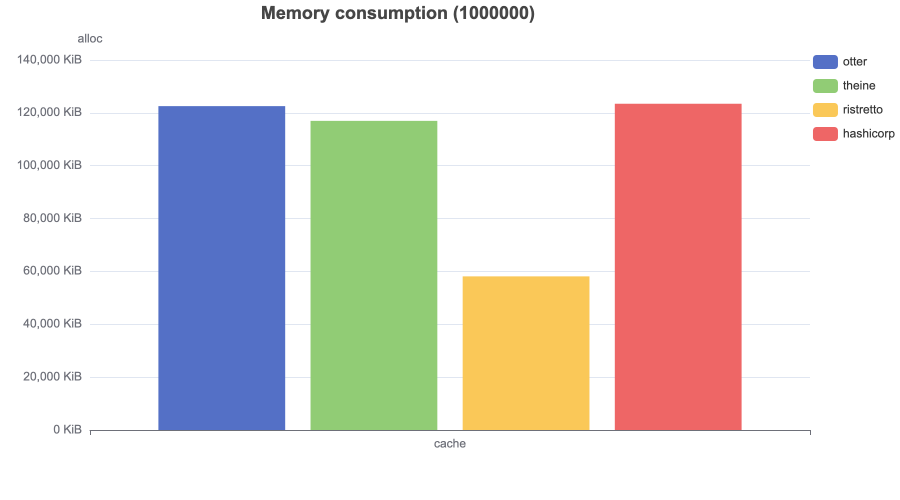
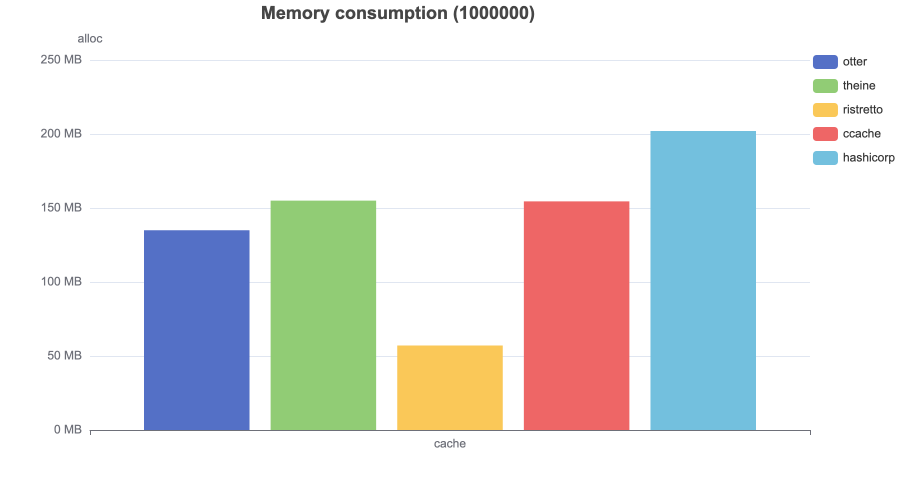
[Chore] Update memory consumption benchmarks

diff --git a/memory/main.go b/memory/main.go
@@ -2,7 +2,9 @@ package main
 
 import (
 	"fmt"
+	"github.com/karlseguin/ccache/v3"
 	"log"
+	"math"
 	"os"
 	"runtime"
 	"strconv"
@@ -14,7 +16,20 @@ import (
 	"github.com/maypok86/otter"
 )
 
-var keys []uint32
+var keys []string
+
+func round(num float64) int {
+	return int(num + math.Copysign(0.5, num))
+}
+
+func toFixed(num float64, precision int) float64 {
+	output := math.Pow(10, float64(precision))
+	return float64(round(num*output)) / output
+}
+
+func toMB(bytes uint64) float64 {
+	return float64(bytes) / 1024 / 1024
+}
 
 func main() {
 	name := os.Args[1]
@@ -24,9 +39,9 @@ func main() {
 		log.Fatal(err)
 	}
 
-	keys = make([]uint32, 0, capacity)
+	keys = make([]string, 0, capacity)
 	for i := 0; i < capacity; i++ {
-		keys = append(keys, uint32(i))
+		keys = append(keys, strconv.Itoa(i))
 	}
 
 	constructor, ok := map[string]func(int){
@@ -34,6 +49,7 @@ func main() {
 		"ristretto": newRistretto,
 		"theine":    newTheine,
 		"hashicorp": newHashicorp,
+		"ccache":    newCcache,
 	}[name]
 	if !ok {
 		log.Fatalf("not found cache %s\n", name)
@@ -49,16 +65,16 @@ func main() {
 	var m runtime.MemStats
 	runtime.ReadMemStats(&m)
 
-	fmt.Printf("%s\t%d\t%v KiB\t%v KiB\n",
+	fmt.Printf("%s\t%d\t%v MB\t%v MB\n",
 		name,
 		capacity,
-		(m.Alloc-o.Alloc)/1024,
-		(m.TotalAlloc-o.TotalAlloc)/1024,
+		toFixed(toMB(m.Alloc-o.Alloc), 2),
+		toFixed(toMB(m.TotalAlloc-o.TotalAlloc), 2),
 	)
 }
 
 func newOtter(capacity int) {
-	cache, err := otter.MustBuilder[uint32, uint32](capacity).
+	cache, err := otter.MustBuilder[string, string](capacity).
 		WithTTL(time.Hour).
 		Build()
 	if err != nil {
@@ -84,7 +100,7 @@ func newRistretto(capacity int) {
 }
 
 func newTheine(capacity int) {
-	cache, err := theine.NewBuilder[uint32, uint32](int64(capacity)).Build()
+	cache, err := theine.NewBuilder[string, string](int64(capacity)).Build()
 	if err != nil {
 		log.Fatal(err)
 	}
@@ -93,8 +109,15 @@ func newTheine(capacity int) {
 	}
 }
 
+func newCcache(capacity int) {
+	cache := ccache.New(ccache.Configure[string]().MaxSize(int64(capacity)))
+	for _, key := range keys {
+		cache.Set(key, key, time.Hour)
+	}
+}
+
 func newHashicorp(capacity int) {
-	cache := hashicorp.NewLRU[uint32, uint32](capacity, nil, time.Hour)
+	cache := hashicorp.NewLRU[string, string](capacity, nil, time.Hour)
 	for _, key := range keys {
 		cache.Add(key, key)
 	}

diff --git a/memory/cmd/main.go b/memory/cmd/main.go
@@ -16,7 +16,7 @@ import (
 
 type memoryResult struct {
 	cacheName string
-	alloc     int
+	alloc     float64
 }
 
 func main() {
@@ -46,7 +46,7 @@ func main() {
 		if err != nil {
 			log.Fatal("can not parse benchmark output", err)
 		}
-		alloc, err := strconv.Atoi(fields[2])
+		alloc, err := strconv.ParseFloat(fields[2], 64)
 		if err != nil {
 			log.Fatal("can not parse benchmark output", err)
 		}
@@ -63,7 +63,7 @@ func main() {
 			charts.WithYAxisOpts(opts.YAxis{
 				Name: "alloc",
 				AxisLabel: &opts.AxisLabel{
-					Formatter: "{value} KiB",
+					Formatter: "{value} MB",
 				},
 			}),
 			charts.WithTitleOpts(opts.Title{
